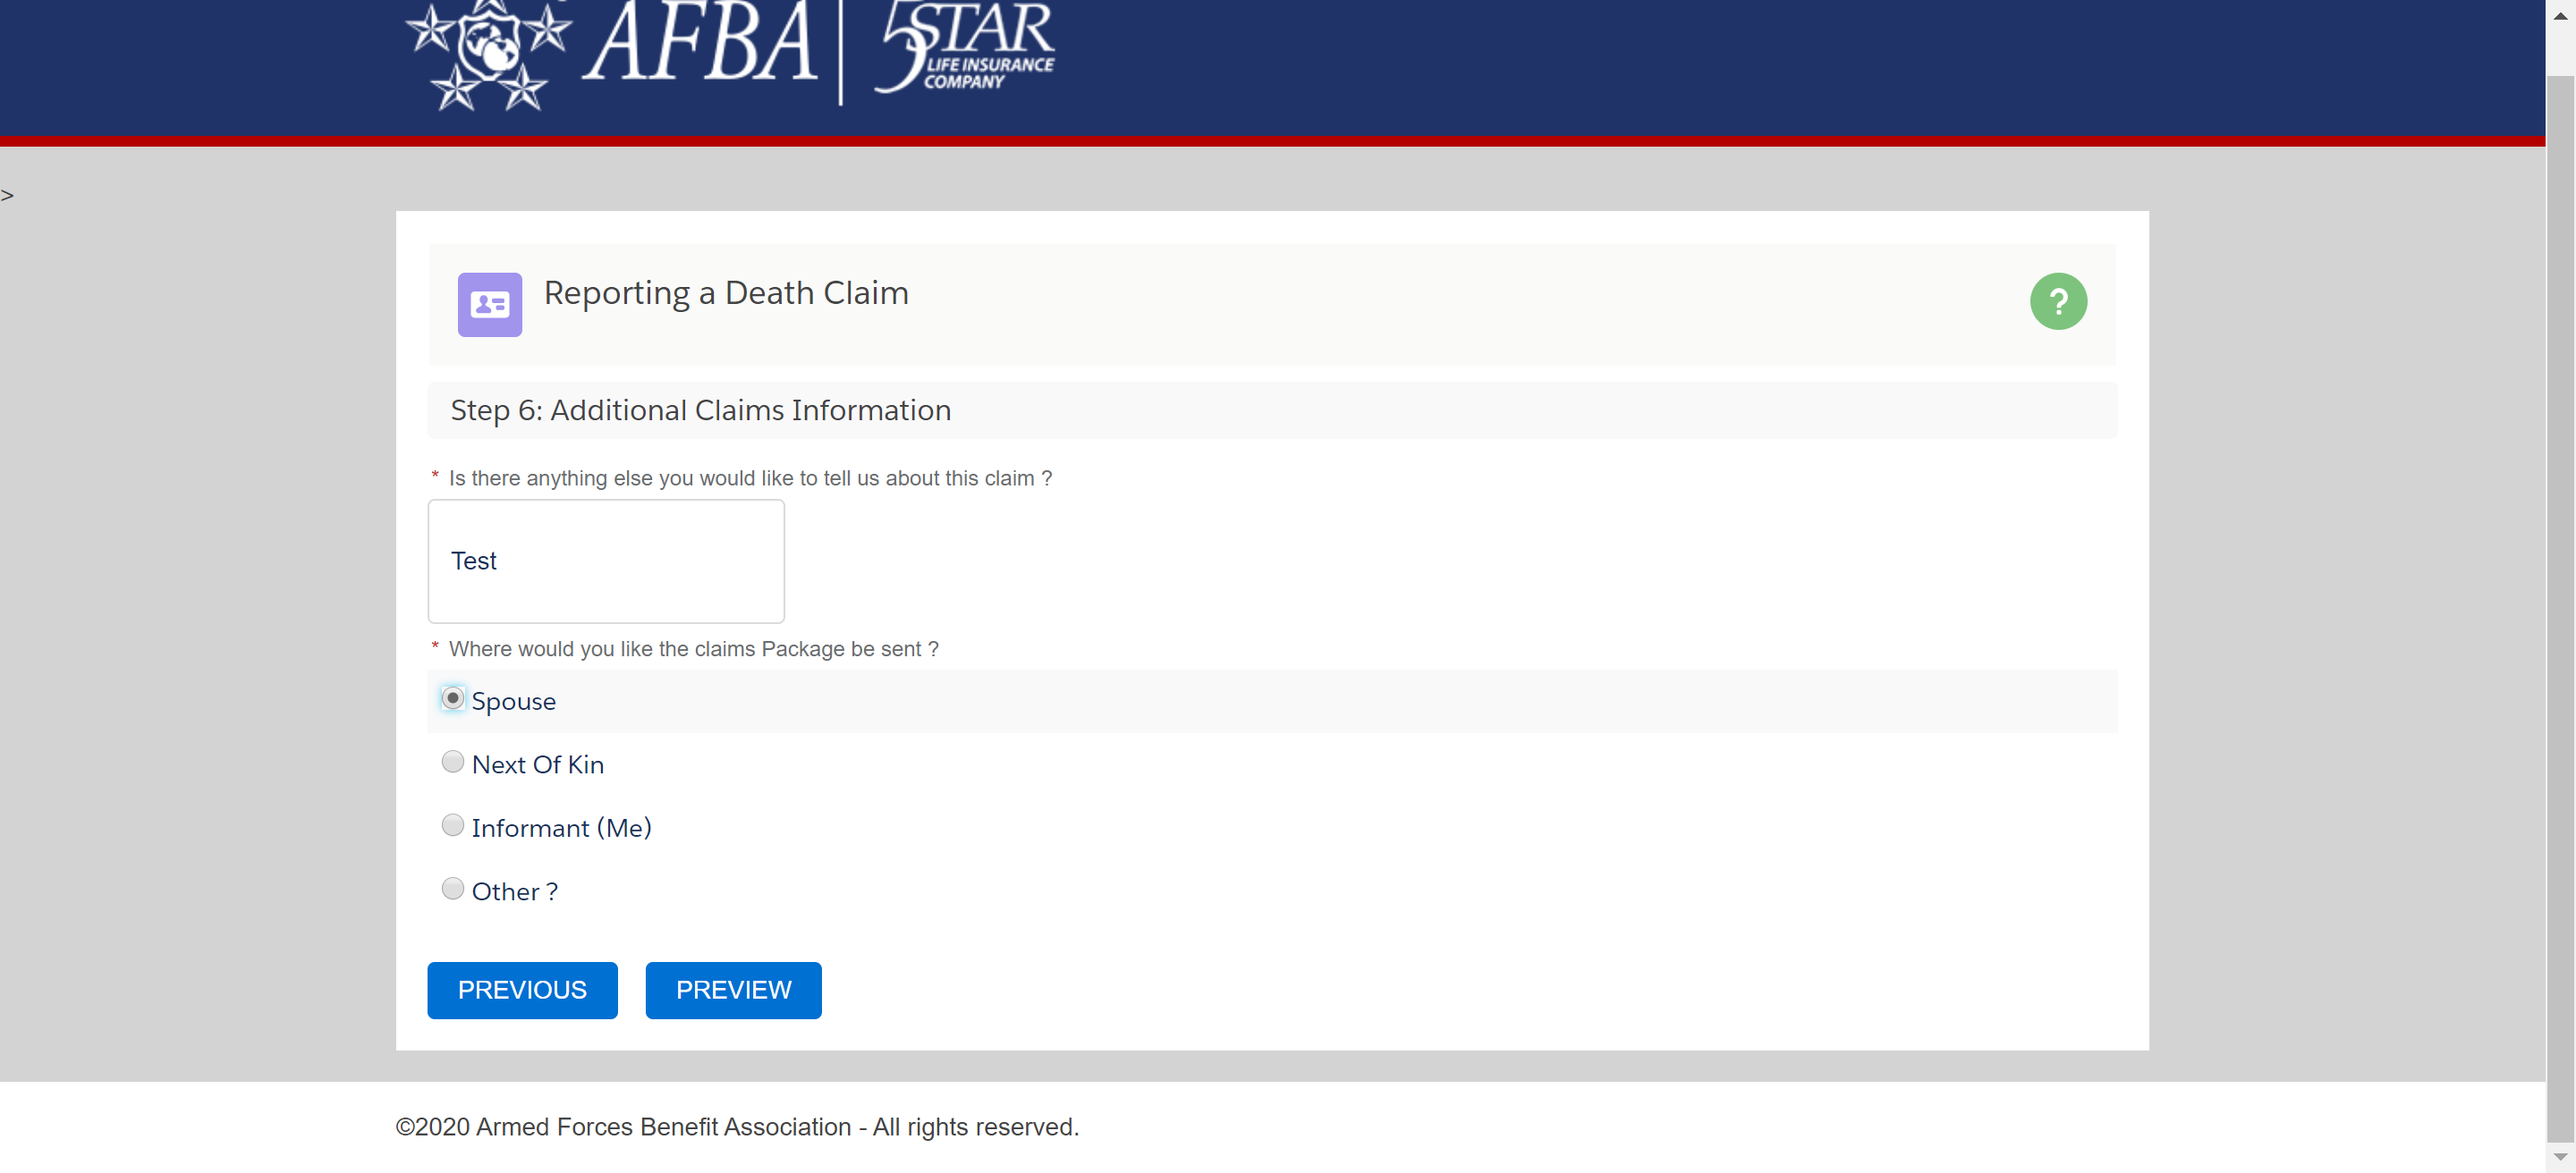
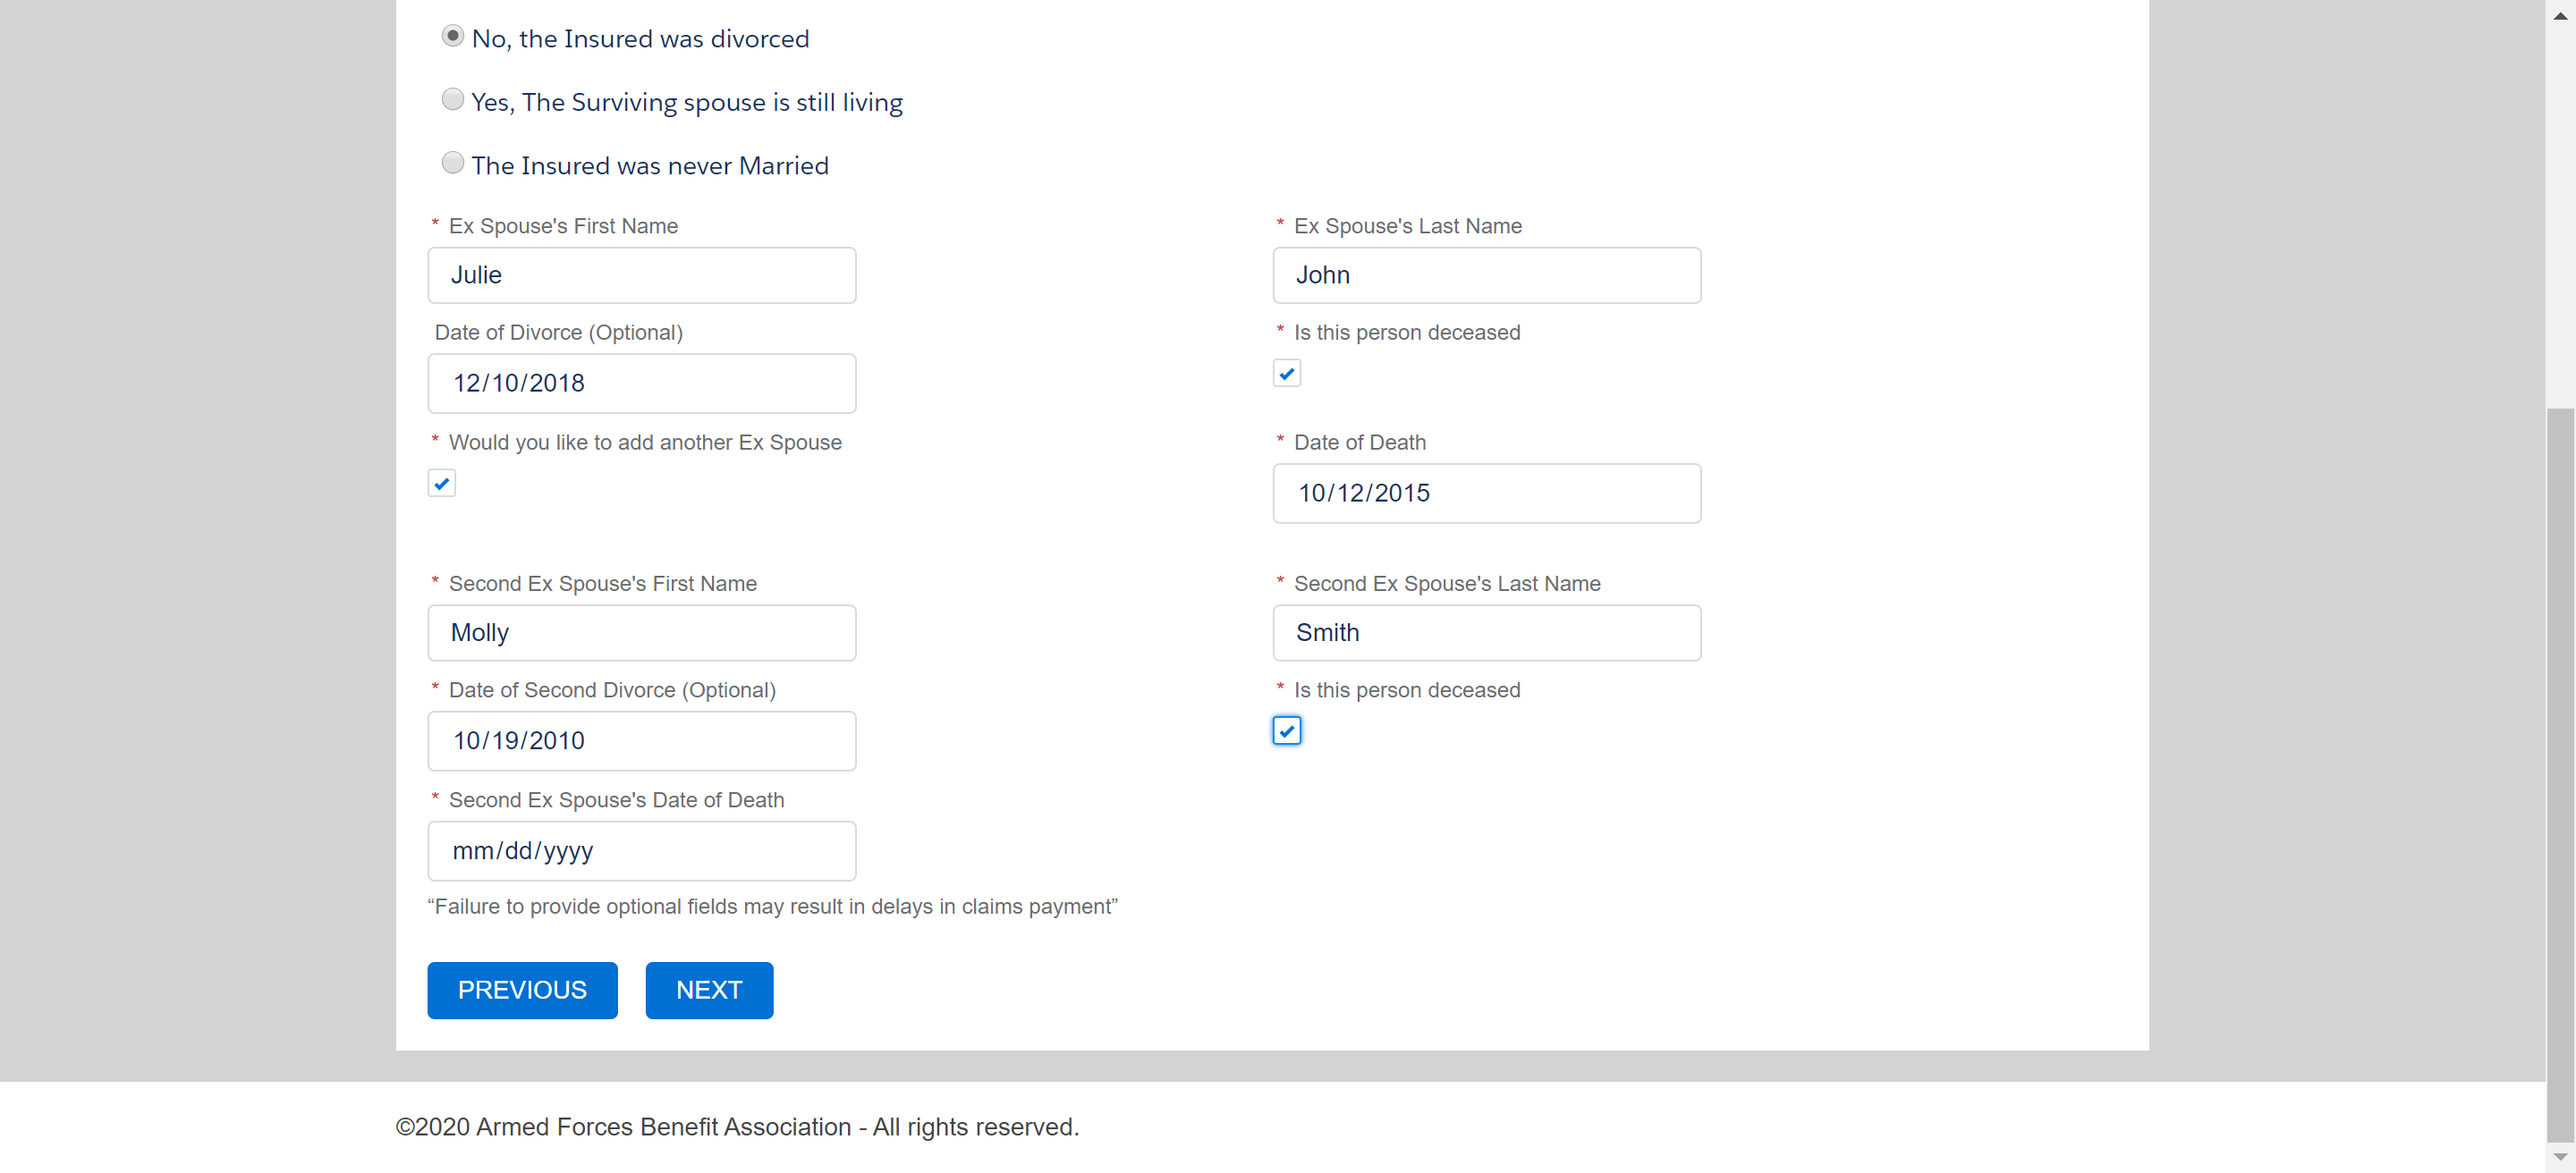
Claims In Take

diff --git a/src/main/java/CustomerPortalStepDef/ClaimsIntake3.java b/src/main/java/CustomerPortalStepDef/ClaimsIntake3.java
@@ -3,22 +3,147 @@ package CustomerPortalStepDef;
 import cucumber.api.java.en.Given;
 import cucumber.api.java.en.Then;
 import cucumber.api.java.en.When;
+import pages.ClaimsIntake;
 import utilities.TestBase;
 
 public class ClaimsIntake3  extends TestBase{
 	
 	@Given("Step two to select Sibling to relationship Insured")
 	public void step_two_to_select_Sibling_to_relationship_Insured() {
-	  
+		ClaimsIntake.Relationship.click();
+		act.pause(2000).perform();
+		ClaimsIntake.RelationshipExSpouse.click();
 	}
 
 	@When("Input FN, LN, Email, Select Country, Address, City, State, Zipcode, Phone Num")
 	public void input_FN_LN_Email_Select_Country_Address_City_State_Zipcode_Phone_Num() {
-	 
+		act.pause(1000).perform();
+		ClaimsIntake.FirstName.sendKeys("Aleia");
+		ClaimsIntake.LastName.sendKeys("Dubois");
+		act.pause(1000).perform();
+		ClaimsIntake.Email.sendKeys("qapeep512@gmail.com");
+		ClaimsIntake.Country.click();
+		act.pause(1000).perform();
+		ClaimsIntake.USA.click();
+		act.pause(1000).perform();
+		ClaimsIntake.Street.sendKeys("Apt 1227 7 River Rd");
+		act.pause(1000).perform();
+		ClaimsIntake.City.sendKeys("Pago Pago");
+		ClaimsIntake.StateSouthDakota.click();
+		act.pause(1000).perform();
+		ClaimsIntake.ZipCode.click();
+		ClaimsIntake.ZipCode.sendKeys("96799");
+		ClaimsIntake.Phone.click();
+		ClaimsIntake.Phone.sendKeys("7035647558");
+		act.pause(2000).perform();
+		ClaimsIntake.Next.click();
 	}
 
 	@Then("Step three Input Insured FN, LN, Policy Num, NOD, Insured complete SSN, CauseOfDeath, DOB, DOB")
 	public void step_three_Input_Insured_FN_LN_Policy_Num_NOD_Insured_complete_SSN_CauseOfDeath_DOB_DOB() {
-	   
+		ClaimsIntake.FName.sendKeys("Barthon");
+		ClaimsIntake.LName.sendKeys("Dubois");
+		act.pause(1000).perform();
+		ClaimsIntake.PolicyNum.sendKeys("4567890");
+		act.pause(1000).perform();
+		ClaimsIntake.NaturalCauses.click();
+		act.pause(1000).perform();
+		ClaimsIntake.InsuredCompleteSSN.sendKeys("646200078");
+		ClaimsIntake.Bronchitis.click();
+		act.pause(2000).perform();
+		ClaimsIntake.DOB.click();
+		ClaimsIntake.DOB.sendKeys("10041998");
+		act.pause(2000).perform();
+		ClaimsIntake.DOD.click();
+		ClaimsIntake.DOD.sendKeys("11202019");
+		act.pause(2000).perform();
+		ClaimsIntake.Next3.click();
+		act.pause(2000).perform();
 	}
+	
+	@Then("Step four Select the Insured was dicorced")
+	public void step_four_Select_the_Insured_was_dicorced() {
+		ClaimsIntake.Step4Second.click();
+		act.pause(1000).perform();
+	}
+
+	@Then("input Ex Spouse FN, LN, Date of Divorce, select deceased and input Date of Death")
+	public void input_Ex_Spouse_FN_LN_Date_of_Divorce_select_deceased_and_input_Date_of_Death() {
+		ClaimsIntake.ExSpouseFN.sendKeys("Julie");
+		ClaimsIntake.ExSpouseLN.sendKeys("John");
+		act.pause(2000).perform();
+		ClaimsIntake.DODivorce.click();
+		ClaimsIntake.DODivorce.sendKeys("12102018");
+		act.pause(2000).perform();
+		ClaimsIntake.IsthispersonDeceasedClick.click();
+		act.pause(2000).perform();
+		ClaimsIntake.ExDOD.click();
+		ClaimsIntake.ExDOD.sendKeys("10122015");
+		act.pause(2000).perform();
+	}
+
+	@Then("Select add another Ex Spouse, input Ex Spouse FN, LN, Date of  Second Divorce, Date of Death")
+	public void select_add_another_Ex_Spouse_input_Ex_Spouse_FN_LN_Date_of_Second_Divorce_Date_of_Death() {
+		ClaimsIntake.AddAnotherExSpouse.click();
+		act.pause(1000).perform();
+		ClaimsIntake.SecondXSpouseFN.sendKeys("Molly");
+		ClaimsIntake.SecondXSpouseLn.sendKeys("Smith");
+		act.pause(2000).perform();
+		ClaimsIntake.SecondXDivorceDate.click();
+		ClaimsIntake.SecondXDivorceDate.sendKeys("10192010");
+		act.pause(2000).perform();
+		ClaimsIntake.SecondXIsthisPersonDeceasedClick.click();
+		act.pause(2000).perform();
+		ClaimsIntake.SecondXDOD.click();
+		ClaimsIntake.SecondXDOD.sendKeys("10182019");
+		act.pause(1000).perform();
+		ClaimsIntake.Next4.click();
+	}
+	
+	@Then("Step five select yrd first, then select No to fill out all the information")
+	public void step_five_select_yrd_first_then_select_No_to_fill_out_all_the_information() {
+		act.pause(2000).perform();
+		ClaimsIntake.SelectYesFirst.click();
+		act.pause(5000).perform();
+		ClaimsIntake.SelectNoSecond.click();
+		act.pause(2000).perform();
+		ClaimsIntake.Step5firstOptionStep4NextRelationshipChild.click();
+		ClaimsIntake.NextOfEmail.sendKeys("qapeep512@gmail.com");
+		act.pause(1000).perform();
+		ClaimsIntake.NextOfFN.sendKeys("Mark");
+		ClaimsIntake.NextOfLN.sendKeys("Blanc");
+		act.pause(1000).perform();
+		ClaimsIntake.NextOfStreet.sendKeys("13 River Rd");
+		ClaimsIntake.NextOfCity.sendKeys("Portland");
+		act.pause(2000).perform();
+		ClaimsIntake.NextOfState.click();
+		ClaimsIntake.NextOfZipCode.click();
+		ClaimsIntake.NextOfZipCode.sendKeys("97035");
+		act.pause(2000).perform();
+		ClaimsIntake.NextOfCountry.click();
+		
+		ClaimsIntake.NextOfPhone.sendKeys("2026549889");
+		act.pause(2000).perform();
+		ClaimsIntake.NextForStepFive.click();
+	}
+	
+	@Then("Step six Additional claims Information input opinion and select package to send Information me")
+	public void step_six_Additional_claims_Information_input_opinion_and_select_package_to_send_Information_me() {
+		act.pause(2000).perform();
+		ClaimsIntake.InputOpinion.sendKeys("Automation Test 3");
+		act.pause(2000).perform();
+		ClaimsIntake.SelectInformantMe.click();
+		act.pause(2000).perform();
+		ClaimsIntake.SelectPreview.click();
+		act.pause(4000).perform();
+	}
+
+	@Then("Step seven Summary of selection Click Notes radio button and submit the application")
+	public void step_seven_Summary_of_selection_Click_Notes_radio_button_and_submit_the_application() {
+		ClaimsIntake.ClickNoteBtn.click();
+		act.pause(2000).perform();
+		ClaimsIntake.ClickSubmit.click();
+		act.pause(5000).perform();
+	}
+	
 }

diff --git a/src/main/java/pages/ClaimsIntake.java b/src/main/java/pages/ClaimsIntake.java
@@ -20,6 +20,9 @@ public class ClaimsIntake {
 	@FindBy(xpath="//*[@id='Mainmenu:j_id27:j_id28:theForm:informantRelationship']/option[3]")
 	public static WebElement RelationshipChild;
 	
+	@FindBy(xpath="//*[@id='Mainmenu:j_id27:j_id28:theForm:informantRelationship']/option[26]")
+	public static WebElement RelationshipExSpouse;
+	
 	@FindBy(xpath="//*[@id='Mainmenu:j_id27:j_id28:theForm:informantFirstName']")
 	public static WebElement FirstName;
 	
@@ -45,6 +48,9 @@ public class ClaimsIntake {
 	
 	@FindBy(xpath="//*[@id='Mainmenu:j_id27:j_id28:theForm:state']/option[29]")
 	public static WebElement StateNevada;
+	
+	@FindBy(xpath="//*[@id='Mainmenu:j_id27:j_id28:theForm:state']/option[42]")
+	public static WebElement StateSouthDakota;
 	
 	
 	
@@ -72,6 +78,9 @@ public class ClaimsIntake {
 	@FindBy(xpath="//*[@id=\"Mainmenu:j_id27:j_id28:theForm:natureOfDeath\"]/option[6]")
 	public static WebElement Suicide;
 	
+	@FindBy(xpath="//*[@id=\"Mainmenu:j_id27:j_id28:theForm:natureOfDeath\"]/option[5]")
+	public static WebElement NaturalCauses;
+	
 	@FindBy(xpath="//*[@id=\"Mainmenu:j_id27:j_id28:theForm:insuredSSN\"]")
 	public static WebElement InsuredCompleteSSN;
 	
@@ -80,6 +89,9 @@ public class ClaimsIntake {
 	
 	@FindBy(xpath="//*[@id=\"Mainmenu:j_id27:j_id28:theForm:causeOfDeath\"]/option[4]")
 	public static WebElement GunshotSelfInflicted;
+	
+	@FindBy(xpath="//*[@id=\"Mainmenu:j_id27:j_id28:theForm:causeOfDeath\"]/option[14]")
+	public static WebElement Bronchitis;
 	
 	@FindBy(xpath="//*[@id=\"Mainmenu:j_id27:j_id28:theForm:dateOfBirth\"]")
 	public static WebElement DOB;

diff --git a/src/main/java/CustomerPortalStepDef/ClaimsInTake4.java b/src/main/java/CustomerPortalStepDef/ClaimsInTake4.java
@@ -1,0 +1,29 @@
+package CustomerPortalStepDef;
+
+import cucumber.api.java.en.Given;
+import cucumber.api.java.en.Then;
+import cucumber.api.java.en.When;
+import utilities.TestBase;
+
+public class ClaimsInTake4 extends TestBase{
+
+	@Given("Step two to select more options to relationship Insured")
+	public void step_two_to_select_more_options_to_relationship_Insured() {
+	   
+	}
+
+	@When("Input first name, last name, Email, country, address, city, state, Zipcode, phone number")
+	public void input_first_name_last_name_Email_country_address_city_state_Zipcode_phone_number() {
+	    
+	}
+
+	@When("Step three Input Insured first name, last name, Policy Num, date of divource, SSN, COD, DOB")
+	public void step_three_Input_Insured_first_name_last_name_Policy_Num_date_of_divource_SSN_COD_DOB() {
+	  
+	}
+
+	@Then("Step four select Other option")
+	public void step_four_select_Other_option() {
+	   
+	}
+}

diff --git a/src/test/java/runner/TestRunner.java b/src/test/java/runner/TestRunner.java
@@ -20,7 +20,7 @@ import cucumber.api.junit.Cucumber;
 		features = "MyFeatures"
 		,glue = "CustomerPortalStepDef",
 		dryRun = true,
-		tags = {"@Claims3"}
+		tags = {"@Claims4"}
 		)                  
 
 public class TestRunner {
